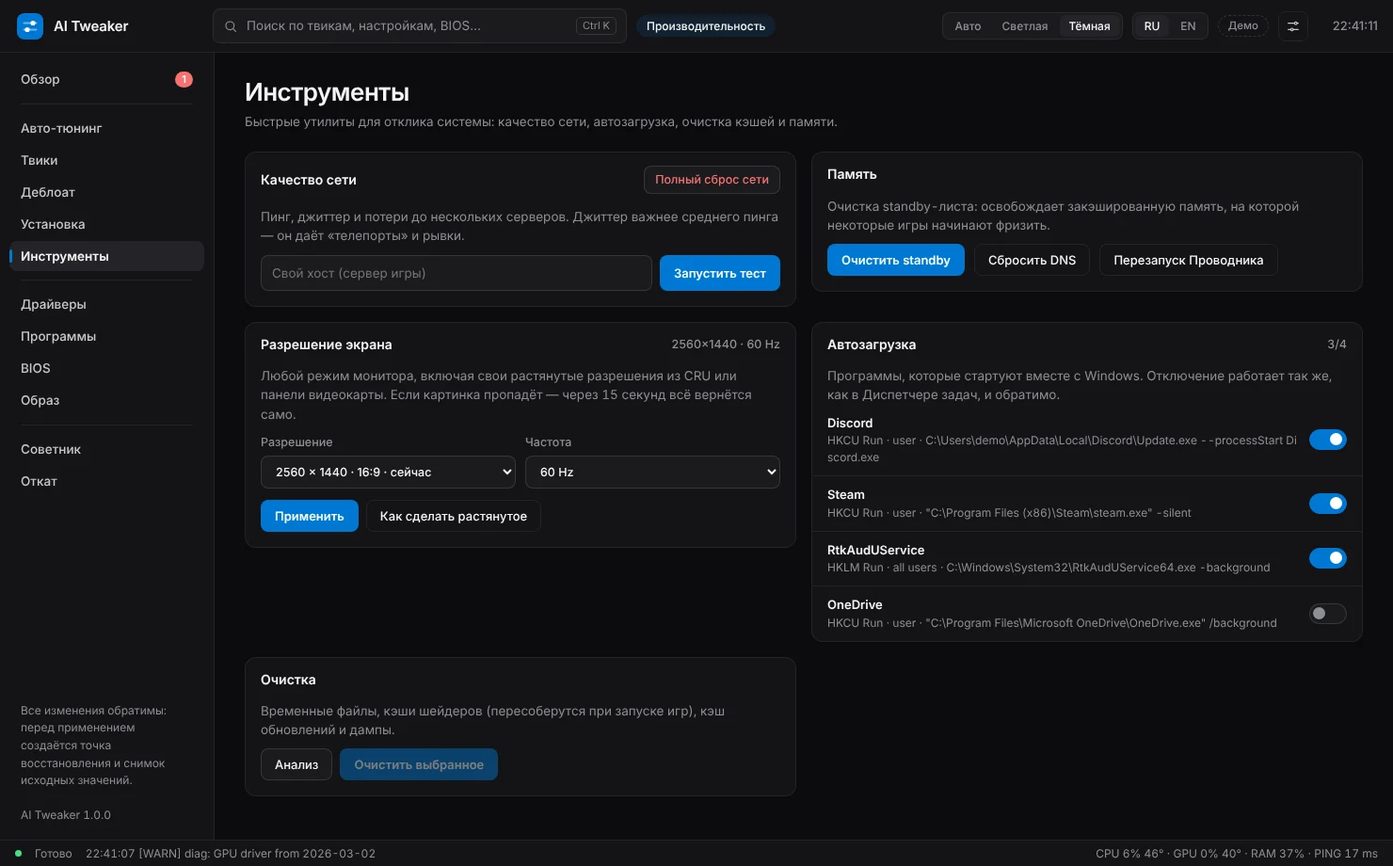
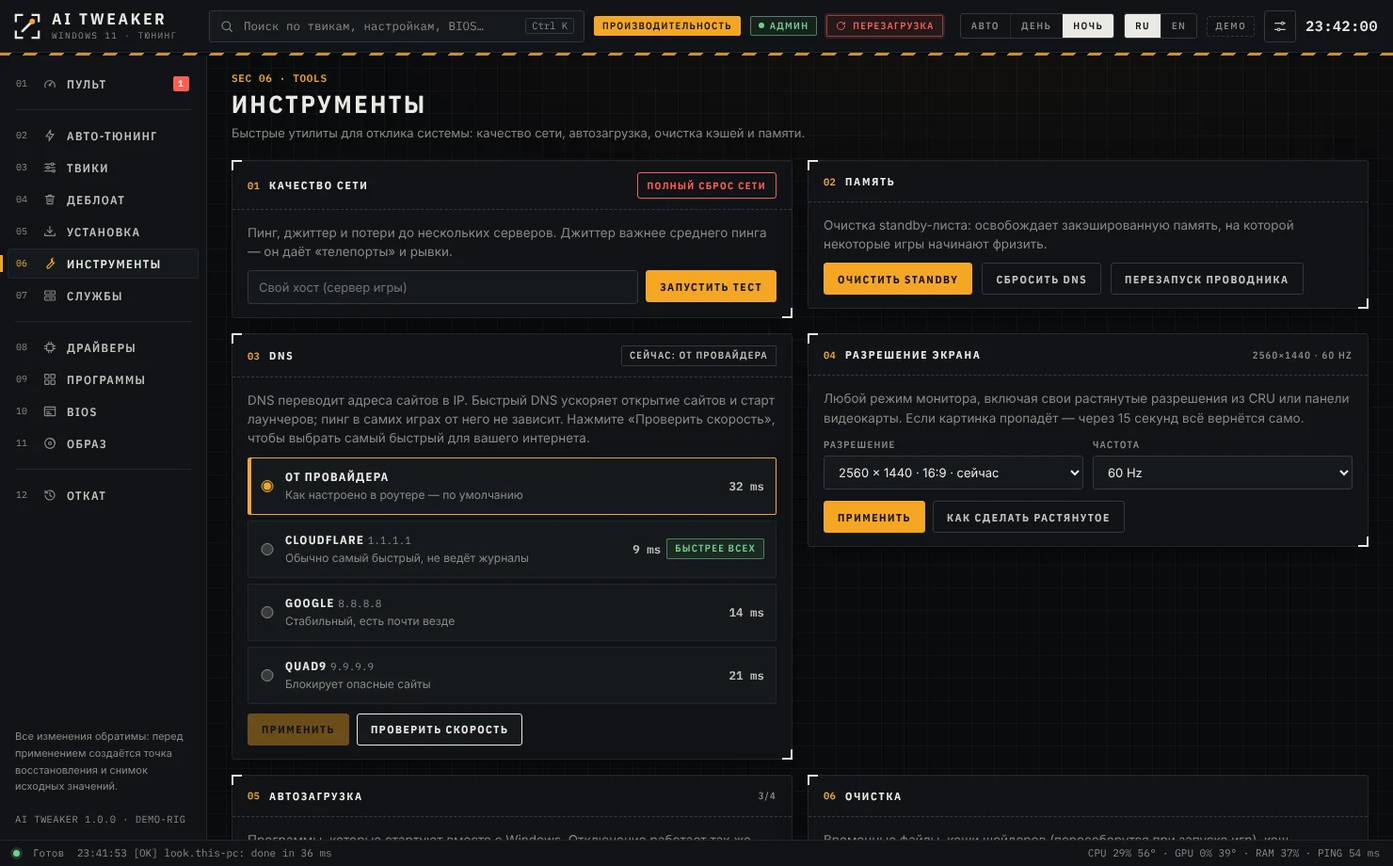
Release notes, README for the new design and features
- GitHub releases get a name, install notes (SmartScreen, antivirus,
  where to start) and the exe, marked as latest.
- README: Console naming, services, Rufus, DNS, bringing back removed
  apps, uninstalling programs, Advisor hidden by default, download from
  Releases; fresh screenshots in the new design.
- Warning dialogs draw the hazard stripe as its own element.

Claude-Session: https://claude.ai/code/session_01MEmPabR4u1VMmTzh31RTp4

diff --git a/src/AITweaker.App/wwwroot/css/app.css b/src/AITweaker.App/wwwroot/css/app.css
@@ -487,7 +487,8 @@ details.cat-group > summary::-webkit-details-marker { display: none; }
 .modal { width: min(620px, calc(100vw - 40px)); max-height: calc(100vh - 60px); overflow: auto; background: var(--panel); border: 1.5px solid var(--ink); box-shadow: var(--shadow-pop); border-radius: var(--r); animation: pop .16s ease-out; }
 .modal.wide { width: min(980px, calc(100vw - 40px)); }
 .modal-h { display: flex; align-items: center; gap: 10px; padding: 13px 16px; border-bottom: 1px dashed var(--line-2); font: 700 13px/1.2 var(--font-head); letter-spacing: .14em; text-transform: uppercase; position: sticky; top: 0; background: var(--panel); z-index: 1; }
-.modal-h.hazard { border-top: 5px solid transparent; border-image: repeating-linear-gradient(-45deg, var(--hazard-a) 0 10px, var(--hazard-b) 10px 20px) 5; }
+.modal-h.hazard { padding-top: 18px; }
+.modal-h.hazard::before { content: ""; position: absolute; left: 0; right: 0; top: 0; height: 5px; background: repeating-linear-gradient(-45deg, var(--hazard-a) 0 10px, var(--hazard-b) 10px 20px); }
 .modal-h .x { margin-left: auto; cursor: pointer; border: 1px solid transparent; background: none; width: 28px; height: 28px; display: grid; place-items: center; color: var(--muted); border-radius: 2px; }
 .modal-h .x:hover { border-color: var(--line-2); color: var(--ink); }
 .modal-b { padding: 16px; display: grid; gap: 12px; }

diff --git a/README.md b/README.md
@@ -2,19 +2,21 @@
 
 Настройка Windows 11 под ваш компьютер. Программа сама определяет железо — процессор (Intel/AMD, гибридные P/E-ядра, X3D), видеокарту, память, диски, сеть, монитор, ноутбук или ПК — и применяет то, что подходит именно этой системе: меньше задержка ввода и кадра, ровнее пинг, больше FPS. Всё, что отключает нужное, спрашивается отдельно. Всё обратимо.
 
-![Обзор](docs/images/overview-day.webp)
+![Пульт](docs/images/overview-day.webp)
 
 <details><summary>Ещё скриншоты</summary>
 
-| Тёмная тема | Чем вы пользуетесь? |
+| Ночная смена | Чем вы пользуетесь? |
 |---|---|
 | ![](docs/images/overview-night.webp) | ![](docs/images/wizard.webp) |
-| **Установка программ** | **Инструменты и разрешение экрана** |
+| **Установка программ** | **Инструменты: сеть, DNS, разрешение экрана** |
 | ![](docs/images/install.webp) | ![](docs/images/tools.webp) |
+| **Службы Windows** | **Подтверждение важного** |
+| ![](docs/images/services.webp) | ![](docs/images/confirm.webp) |
 | **Образ, флешка и плейбук AME** | **Гайд: растянутое разрешение** |
 | ![](docs/images/image.webp) | ![](docs/images/guide-cru.webp) |
-| **Подтверждение важного** | **Окно перезагрузки** |
-| ![](docs/images/confirm.webp) | ![](docs/images/restart.webp) |
+| **Окно перезагрузки** | |
+| ![](docs/images/restart.webp) | |
 
 </details>
 
@@ -22,20 +24,29 @@
 
 | Раздел | Что делает |
 |---|---|
-| **Обзор** | Готовность системы, датчики (температуры CPU/GPU/NVMe, загрузка и вентилятор GPU, таймер), конфигурация ПК, найденные проблемы, прогресс по категориям, журнал, быстрые действия |
+| **Пульт** | Индекс системы, датчики (температуры CPU/GPU/NVMe, загрузка и вентилятор GPU, таймер), конфигурация ПК, найденные проблемы, прогресс по категориям, журнал, быстрые действия |
 | **Авто-тюнинг** | Четыре профиля — Безопасный, Баланс, Производительность, Экстрим. Отмечаются только твики, подходящие вашему железу, с объяснением «почему». Здесь же — «Отключите то, чем не пользуетесь» |
 | **Твики** | Каталог из 110 твиков: приватность, игры, мышь и клавиатура, сеть, питание, устройства и прерывания, службы, интерфейс, внешний вид, программы, безопасность. Статус, применение и откат по одному |
-| **Деблоат** | Удаление встроенных приложений для всех пользователей. Store, Xbox, «Связь с телефоном», Outlook заранее не выбраны и требуют подтверждения |
-| **Установка** | Официальные программы через winget одной очередью: браузеры, Discord, Telegram, Steam, Epic, Spotify, OBS, 7-Zip, PowerToys, библиотеки Visual C++/DirectX/.NET, Open-Shell, CRU и другие. Уже установленное отмечено. Расширения Chrome |
-| **Инструменты** | Пинг, джиттер и потери до игровых серверов, сброс сети и DNS, очистка standby-памяти, автозагрузка, очистка временных файлов и кэшей шейдеров, **разрешение и частота экрана** |
+| **Деблоат** | Удаление встроенных приложений для всех пользователей. Store, Xbox, «Связь с телефоном», Outlook заранее не выбраны и требуют подтверждения. Удалённые можно **вернуть** одной кнопкой |
+| **Установка** | Официальные программы через winget одной очередью: браузеры, Discord, Telegram, Steam, Epic, Spotify, OBS, 7-Zip, PowerToys, библиотеки Visual C++/DirectX/.NET, Open-Shell, CRU и другие. Уже установленное отмечено, его можно удалить. Расширения Chrome |
+| **Инструменты** | Пинг, джиттер и потери до игровых серверов, **выбор DNS с проверкой скорости**, сброс сети, очистка standby-памяти, автозагрузка, очистка временных файлов и кэшей шейдеров, **разрешение и частота экрана** |
+| **Службы** | Все службы Windows: тип запуска и состояние, поиск, фильтры. Включить, отключить, запустить или остановить любую; исходный тип запуска возвращается одной кнопкой |
 | **Драйверы** | Видеокарта, чипсет, сеть, устройства без драйверов, возраст драйвера, официальные ссылки |
 | **Программы** | Пошаговые настройки Discord, Steam, NVIDIA App, AMD Adrenalin, OBS, Spotify, Chrome, Open-Shell, StartAllBack, CRU и других — значение каждого переключателя |
 | **BIOS** | Советы под вашу плату (ASUS / MSI / Gigabyte / ASRock) с путём в меню: XMP/EXPO, ReBAR, Secure Boot, TPM, микрокод Intel 13/14, PBO. Перезагрузка прямо в BIOS |
-| **Образ** | Собственный образ Windows из официального ISO Microsoft, загрузочная флешка, плейбук для AME Wizard |
-| **Советник** | Необязательно: Claude смотрит на конфигурацию ПК и объясняет, что применить и чего избегать. Выбирает только из каталога; нужен ваш ключ API |
+| **Образ** | Собственный образ Windows из официального ISO Microsoft, загрузочная флешка, **Rufus с пошаговым гайдом**, плейбук для AME Wizard |
+| **Советник** | Скрыт по умолчанию, включается в настройках. Claude смотрит на конфигурацию ПК и объясняет, что применить; работает только с вашим платным ключом API Anthropic. Программа полностью работает без него |
 | **Откат** | Исходные значения Windows для каждого твика, откат по одному или всего сразу, точки восстановления, история |
 
-Поиск по всему — **Ctrl + K**. Русский и английский. Светлая и тёмная тема — как в Windows или вручную.
+Поиск по всему — **Ctrl + K**. Русский и английский. Дневная и ночная смена — как в Windows или вручную; акцент — сигнальный оранжевый, цвет Windows или монохром.
+
+## Вернуть или включить что угодно
+
+- **Твик** — «Откат» → твик → «Откатить» (или всё сразу). Возвращаются исходные значения Windows, сохранённые перед изменением.
+- **Служба** — «Службы» → найти по имени → выбрать тип запуска и «Запустить». Если её отключил твик, рядом ссылка на его откат.
+- **Встроенное приложение** — «Деблоат» → «Удалённые — можно вернуть» → «Вернуть» (Store возвращается штатной командой Windows, остальное — из Microsoft Store).
+- **Программа** — «Установка»: поставить или удалить одной кнопкой.
+- **Всё сразу** — точка восстановления Windows, которая создаётся перед изменениями.
 
 Если после изменений нужна перезагрузка, появляется окно с обратным отсчётом (60 с по умолчанию, настраивается или отключается). Её можно отложить — в шапке останется напоминание, пока Windows действительно не перезапустится.
 
@@ -65,7 +76,7 @@
 
 Гайд по [CRU](https://www.monitortests.com/forum/Thread-Custom-Resolution-Utility-CRU): как добавить своё разрешение (например, 1440×1080 или 1280×960), перезапустить драйвер и растянуть картинку на весь экран в NVIDIA/AMD. CRU ставится на вкладке «Установка». Переключать режимы удобно в «Инструменты → Разрешение экрана»: список всех режимов с соотношением сторон, а если монитор не покажет новый режим, через 15 секунд вернётся прежний.
 
-## Образ Windows и флешка
+## Образ Windows, флешка и Rufus
 
 1. **Свежая Windows 11** — ISO скачивается напрямую с Microsoft (или выберите свой).
 2. **Сборка на вашем ПК штатным DISM**: редакция Pro, последнее накопительное обновление из Microsoft Update Catalog, без мусорных приложений и устаревших компонентов, с безопасными твиками и внешним видом AI Tweaker. По желанию — драйверы этого ПК.
@@ -73,6 +84,8 @@
 4. **После установки AI Tweaker запускается сам**, сканирует железо и применяет то, что от него зависит, — затем окно перезагрузки.
 
 Твики, зависящие от железа, в образ не вшиваются: их нельзя выбрать правильно, не видя компьютер. Кнопка «Что будет в образе» показывает точный список.
+
+Обычный ISO Microsoft можно записать и через **Rufus**: кнопка «Открыть Rufus» скачивает официальную версию с GitHub автора (подпись проверяется) и открывает её с уже выбранным ISO; рядом — какие пункты отметить в окне Rufus (без TPM, без учётной записи Microsoft, локальная учётка, без BitLocker). Потом AI Tweaker одной кнопкой копирует себя на готовую флешку.
 
 ## Плейбук для AME Wizard
 
@@ -100,8 +113,8 @@
 
 ## Скачать
 
-- **Готовая сборка**: вкладка **Actions** → последний запуск **Build** → артефакт **AITweaker-win-x64** (`AITweaker.exe`). Для приватного репозитория GitHub Actions работают, только пока на аккаунте есть минуты (Settings → Billing).
-- **Релизы**: при пуше тега `v*` exe прикрепляется к GitHub Release.
+- **Релизы**: [последняя версия](https://github.com/sethosint/ai-tweaker/releases/latest) → **AITweaker.exe** в блоке Assets. Установка не нужна — это один файл; при первом запуске Windows может предупредить о неизвестном издателе: «Подробнее» → «Выполнить в любом случае».
+- **Сборка с каждого коммита**: вкладка **Actions** → запуск **Build** → артефакт **AITweaker-win-x64**.
 
 Требования: Windows 10 2004+ / Windows 11 x64, права администратора, WebView2 Runtime (есть в Windows 11). .NET ставить не нужно — exe автономный.
 
@@ -165,4 +178,4 @@ tools/brand/                   логотип плейбука
 
 ## Сторонние инструменты
 
-Чужих сборок Windows, плейбуков и твикеров AI Tweaker не использует: образ собирается из официального ISO Microsoft штатным DISM, обновления берутся из Microsoft Update Catalog, программы — из winget. Ссылку на ISO запрашивает скрипт Fido (pbatard/Fido). Open-Shell, CRU, StartAllBack и AME Wizard — сторонние программы их авторов; AI Tweaker только ставит официальные версии и настраивает их. Ключ API Claude для советника хранится локально, зашифрованным DPAPI.
+Чужих сборок Windows, плейбуков и твикеров AI Tweaker не использует: образ собирается из официального ISO Microsoft штатным DISM, обновления берутся из Microsoft Update Catalog, программы — из winget. Ссылку на ISO запрашивает скрипт Fido (pbatard/Fido). Open-Shell, CRU, Rufus, StartAllBack и AME Wizard — сторонние программы их авторов; AI Tweaker только ставит официальные версии и настраивает их. Шрифты интерфейса — IBM Plex Sans Condensed и IBM Plex Mono (SIL Open Font License). Ключ API Claude для советника хранится локально, зашифрованным DPAPI.

diff --git a/docs/RELEASE_NOTES.md b/docs/RELEASE_NOTES.md
@@ -1,0 +1,24 @@
+## AI Tweaker для Windows 11
+
+Настраивает Windows под ваш компьютер: сам определяет железо и применяет то, что подходит именно ему. Всё, что отключает нужное, спрашивается отдельно. Всё обратимо.
+
+### Как установить
+
+1. Скачайте **AITweaker.exe** ниже, в блоке «Assets».
+2. Запустите его. Установка не нужна: это один файл, его можно держать где угодно, например на рабочем столе. Программа сама попросит права администратора.
+3. Windows может показать синее окно «Windows защитила ваш компьютер», потому что у файла нет платной цифровой подписи. Нажмите **«Подробнее» → «Выполнить в любом случае»**.
+4. Некоторые антивирусы настороженно относятся к любым твикерам, потому что те меняют системные настройки. Если файл скачан отсюда, с GitHub, его можно добавить в исключения.
+
+Нужна Windows 10 2004+ или Windows 11 x64. WebView2 уже есть в Windows 11; .NET ставить не нужно.
+
+### С чего начать
+
+- **Пульт**: что найдено на вашем ПК, датчики, проблемы.
+- **Авто-тюнинг**: сначала профиль «Безопасный», затем «Баланс» или «Производительность».
+- **Откат**: вернуть любой твик или все сразу. Перед изменениями создаётся точка восстановления Windows.
+
+Подробно о том, как проверить всё безопасно: [docs/TESTING.md](https://github.com/sethosint/ai-tweaker/blob/main/docs/TESTING.md).
+
+---
+
+**English.** Download **AITweaker.exe** from Assets and run it (no install, it asks for admin rights). If SmartScreen warns about an unknown publisher, choose *More info → Run anyway*. Windows 10 2004+ / Windows 11 x64.

diff --git a/docs/TESTING.md b/docs/TESTING.md
@@ -14,7 +14,7 @@
 
 ## 2. Сканирование — ничего не меняет
 
-Запустите `AITweaker.exe` (он сам попросит права администратора). Вкладка **«Обзор»** только читает систему: железо, датчики, найденные проблемы. На этом этапе ничего не применяется.
+Запустите `AITweaker.exe` (он сам попросит права администратора). Вкладка **«Пульт»** только читает систему: железо, датчики, найденные проблемы. На этом этапе ничего не применяется.
 
 ## 3. Применяйте по шагам
 
